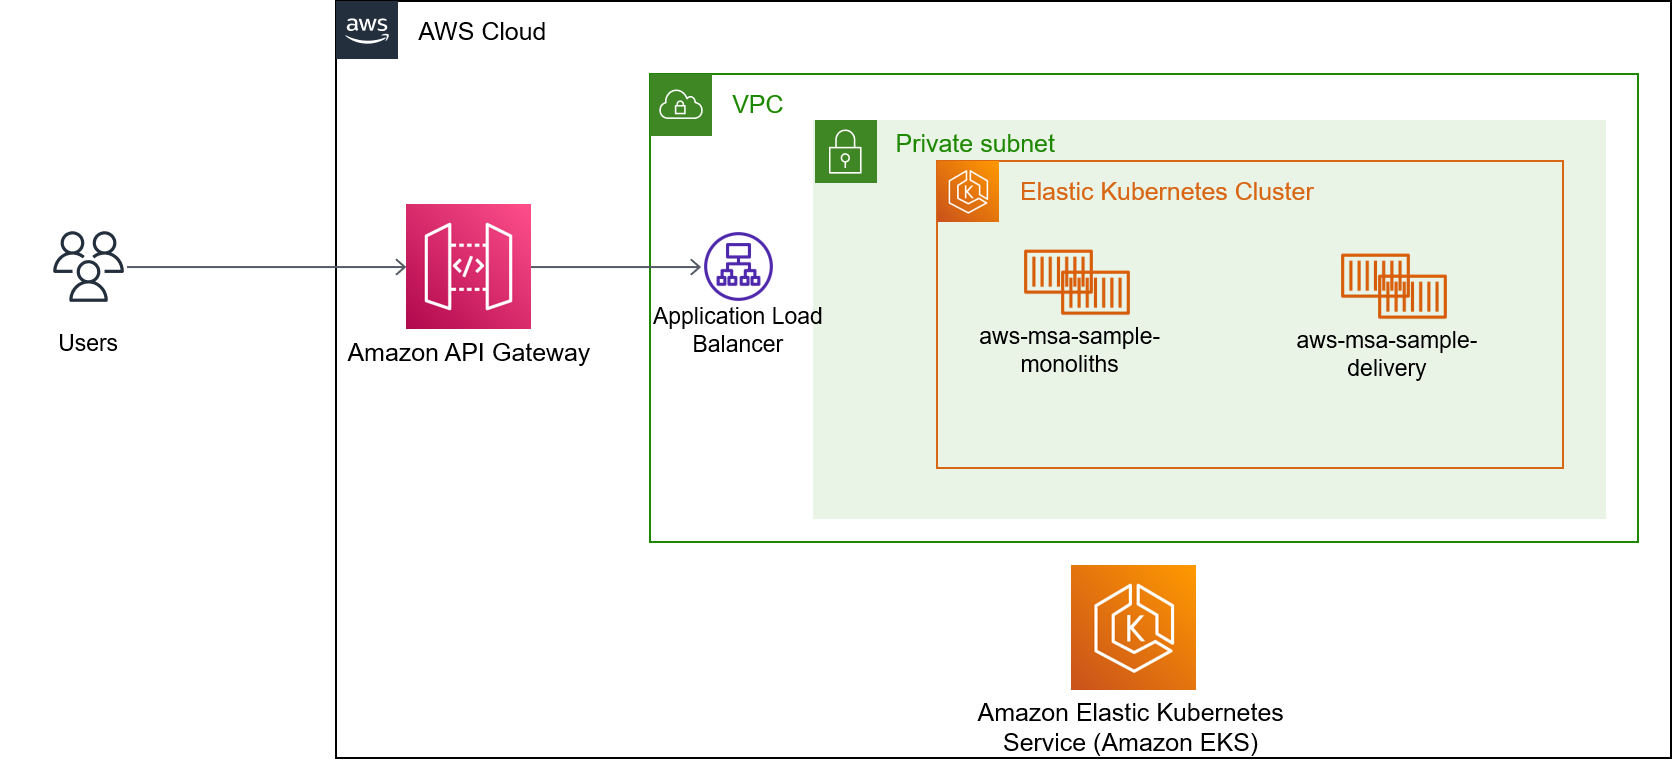
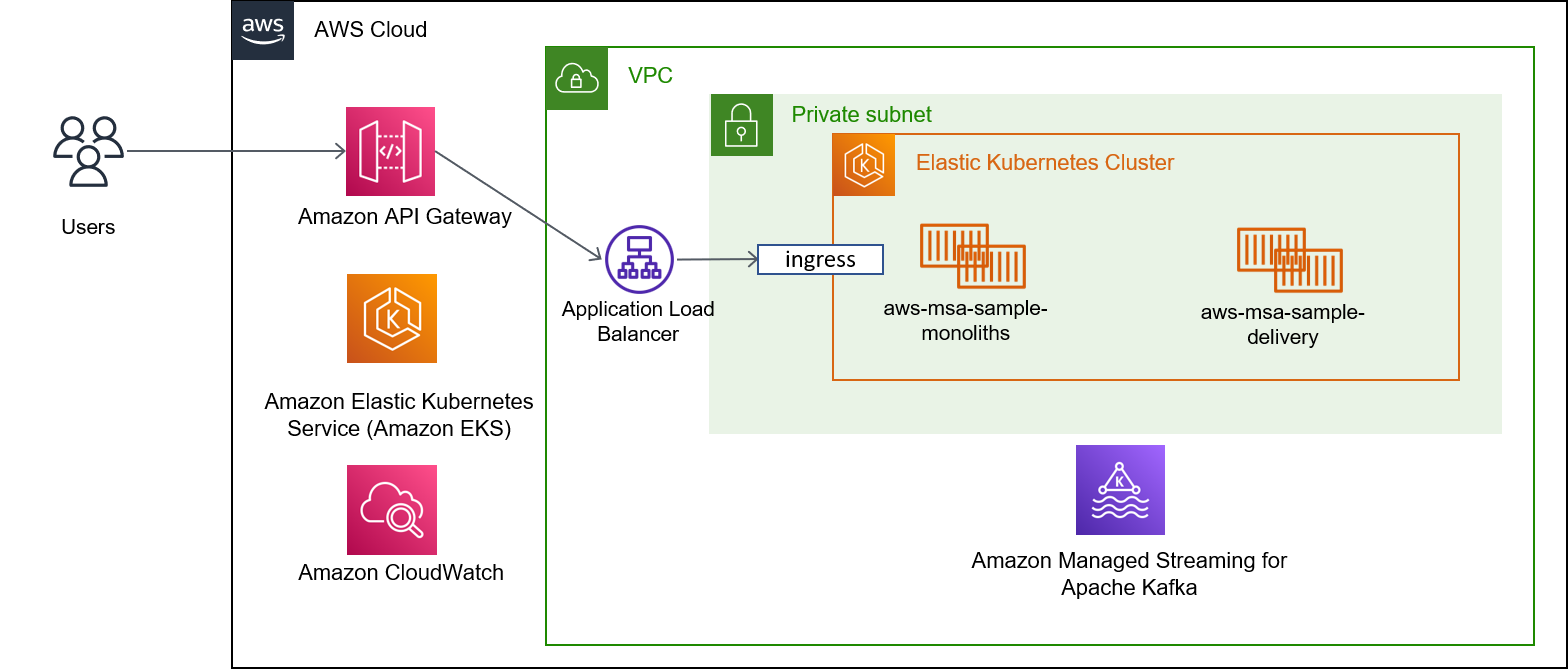
update architecture diagram

diff --git a/README.md b/README.md
@@ -1,28 +1,9 @@
-# peach
-event driven microservice
-# 프로젝트 셋팅
-- (임시) application vmOption 에 아래 설정
-    - todo : 환경 구분하기
-    - todo : 다른방식으로 secret 주입
-```
--Dspring.config.location="file:///Users/kmhak/.testprops/application.properties"
-```
+# aws-msa-monolith-sample
+이 프로젝트는 spring framework를 이용하여 엔터프라이즈 환경에서 재 사용될 수 있는 예제코드 입니다. 
+특히, 마이크로서비스 간의 메시징 처리 구현 시 이 프로젝트가 참고 하세요.
 
-# Setting local Kafka via docker
-
-
-
-# 기타 소소한 project 기본 셋팅
-- Edit custom vm options : todo : (업데이트 하기)
-- Show excluded file 를 "off"
-
-# 적용된 기술 및 개념
-- layered clean architecture
-- java8 ?  
-- spring boot
-- kafka
-- lombok
-
-
-# Architecture
+## Cloud Architecture (AWS)
 <img src="doc/img/aws-architecture.png">
+
+## Microservices Architecture
+<img src="doc/img/high-level-microservice-architecture.png">
